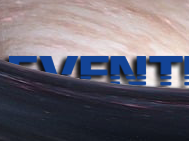
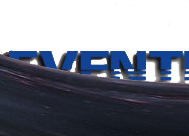
commit

diff --git a/MainWindow.xaml b/MainWindow.xaml
@@ -4,7 +4,6 @@
         xmlns:d="http://schemas.microsoft.com/expression/blend/2008"
         xmlns:mc="http://schemas.openxmlformats.org/markup-compatibility/2006"
         xmlns:local="clr-namespace:Event_Horizon"
-        xmlns:view="clr-namespace:Event_Horizon.View"
         xmlns:fa="clr-namespace:FontAwesome.WPF;assembly=FontAwesome.WPF"
         mc:Ignorable="d"
         Icon="EventHorizonIcon.ico" Name="MainWindowWindow"
@@ -346,14 +345,15 @@
                 <Grid x:Name="EventTypeRadioButtonsGrid" Grid.Row="1" Grid.Column="2" Margin="0,10,0,0">
                     <StackPanel Orientation="Vertical" HorizontalAlignment="Center">
                         <StackPanel.Effect>
-                            <DropShadowEffect Color="Black" Direction="320" ShadowDepth="1" Opacity="0.6" />
+                            <DropShadowEffect Color="Black" Direction="320" ShadowDepth="1" Opacity="0.6"/>
                         </StackPanel.Effect>
                         <ScrollViewer HorizontalScrollBarVisibility="Hidden" VerticalScrollBarVisibility="Hidden">
                             <StackPanel Orientation="Horizontal" HorizontalAlignment="Center" VerticalAlignment="Bottom" Height="114">
-                                <Border CornerRadius="6" BorderBrush="#ff003a72" BorderThickness="0" Width="180" Margin="10,0,5,0">
-                                    <Border.Background>
-                                        <ImageBrush ImageSource="pack://application:,,/Images/wormhole189x141.png" Stretch="None"/>
-                                    </Border.Background>
+                                <Border CornerRadius="6" BorderBrush="#ff003a72" BorderThickness="0" Width="180" Margin="10,0,5,0" Background="#66ffffff">
+                                    <Grid>
+                                        <Image Source="pack://application:,,/Images/EventHorizonLogoNewSmall.png" Stretch="Fill" Width="174" Height="33" HorizontalAlignment="Left" VerticalAlignment="Top" Margin="3,5,0,0"/>
+                                        <Image Source="pack://application:,,/Images/gplv3-130x66.png" Stretch="Fill" Width="130" Height="66" HorizontalAlignment="Center" VerticalAlignment="Top" Margin="0,42,0,0"/>
+                                    </Grid>
                                 </Border>
                                 <Border CornerRadius="6" BorderBrush="#ff003a72" Background="#66ffffff" BorderThickness="0" Width="154" Margin="0,0,5,0">
                                     <StackPanel Orientation="Vertical" VerticalAlignment="Top">

diff --git a/EventHorizonLogo.xaml b/EventHorizonLogo.xaml
@@ -8,7 +8,7 @@
              d:DesignHeight="150" d:DesignWidth="230">
     <Grid Height="150" RenderOptions.BitmapScalingMode="NearestNeighbor" SnapsToDevicePixels="True" TextOptions.TextRenderingMode="Grayscale" RenderOptions.ClearTypeHint="Enabled">
         <StackPanel Orientation="Vertical" Margin="0,10,0,0">
-            <Image Source="pack://application:,,/Images/EventHorizonLogo189x23.png" Stretch="UniformToFill" Width="189" Height="23"/>
+            <Image Source="pack://application:,,/Images/EventHorizonLogoNewSmall.png" Stretch="UniformToFill" Width="189" Height="34"/>
             <Label x:Name="LicenceLabel" Content="By David Paul Jones GPL V3 ( 2023-2023 )" FontSize="10" HorizontalAlignment="Center"/>
             <TextBlock TextAlignment="Center" Margin="0,2,0,0">
                     <Hyperlink NavigateUri="https://github.com/davepauljones/Event-Horizon" RequestNavigate="Hyperlink_RequestNavigate">
@@ -22,7 +22,7 @@
                         buy me a coffee on Patreon
                     </Hyperlink>
                 </TextBlock>
-                <Label Content="424 Man Hours" Foreground="DarkSlateGray" FontSize="26" FontWeight="Bold" HorizontalAlignment="Center"/>
+                <Label Content="436 Man Hours" Foreground="DarkSlateGray" FontSize="26" FontWeight="Bold" HorizontalAlignment="Center"/>
             </StackPanel>
 
         </StackPanel>
